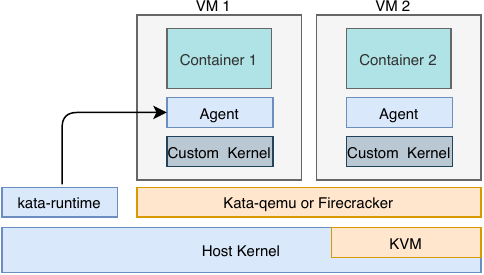
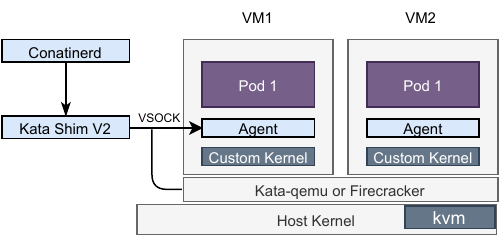
update closer article and figure

diff --git a/content/ja/project/virtualization-performance/index.md b/content/ja/project/virtualization-performance/index.md
@@ -39,19 +39,19 @@ url_video: ""
 #   Otherwise, set `slides = ""`.
 slides: ""
 ---
-Virtual Machines (VMs) are used extensively in cloud computing. The underlying hypervisor allows hardware resources to be split into multiple virtual units which enhances resource utilization. However, VMs with traditional architecture introduce heavy overhead and reduce workload performance. Containers have been introduced to overcome this drawback, yet such a solution raises security concerns due to poor isolation. Lightweight hypervisors have been leveraged to strike a balance between performance and isolation. We conducted a comprehensive performance evaluation of containers based on modern lightweight hypervisors, elaborated on the limitations that affect virtualization performance, identified the best fit use case for practitioners and provided pros and cons analysis of each solution in great detail. We hope our study provides a guidance on how cloud infrastructure should be built and gives the community a better picture of the current technological trend.
+Virtual Machines (VMs) are used extensively in the cloud. The underlying hypervisors allow hardware resources to be split into multiple virtual units which enables server consolidation, fault containment and resource management. However, VMs with traditional architecture introduce heavy overhead and reduce application performance. Containers are becoming popular options for running applications, yet such a solution raises security concerns due to weaker isolation than VMs. We are at the point of container and traditional virtualization convergence where lightweight hypervisors are implemented and integrated into the container ecosystem in order to maximize the benefits of VM isolation and container performance. However, there has been no comprehensive comparison among different convergence architectures. To identify limitations and best fit use cases, we investigate the characteristics of Docker, Kata, gVisor, Firecracker and QEMU/KVM by measuring the performance of disk storage, main memory, CPU, network, system call, and startup time. In addition, we evaluate their performance of running the Nginx web server and the MySQL database management system. We use QEMU/KVM as an example of running traditional VMs, Docker as the standard runc container, and the rest as the representatives of lightweight hypervisors. We compare and analyze the benchmark results, discuss the possible implications, explain the trade-off each organization made, and elaborate on the pros and cons of each architecture.
 
 ## Emerging solutions that provides better isolation - gVisor and Kata Containers
 
 {{< figure src="gVisor.png" title="gVisor Architecture" width="80%">}}
 
-gVisor is a container sandbox developed by Google. It shipped with a user space kernel, acting like a lightweight hypervisor which provides an isolation boundary between applications and host kernel. Sentry is the application kernel that implements substantial portion of the Linux system interface by using a limited set of system calls. gVisor uses ptrace to intercept the system calls from applications. KVM can also be used to boost virtualization performance. System calls invoked from the Sentry are further filtered using seccomp. File I/O is handled by a separate process - Gofer, which communicates with the Sentry through the 9P protocol.
+gVisor is a container sandbox developed by Google. It shipped with a user space kernel - Sentry, acting like a lightweight hypervisor which provides an isolation boundary between applications and host kernel. Sentry is the application kernel that implements substantial portion of the Linux system interface by using a limited set of system calls. gVisor uses ptrace to intercept the system calls from applications. KVM can also be used to trap system calls at hardware level to boost virtualization performance. System calls invoked from the Sentry are further filtered using seccomp. File I/O is handled by a separate file proxy process - Gofer, which communicates with the Sentry through the 9P protocol.
 
-{{< figure src="Kata.png" title="Kata Container Architecture" width="80%">}}
+{{< figure src="kata.png" title="Kata Container Architecture" width="80%">}}
 
-Kata builds lightweight VMs which seamlessly integrate with the container ecosystem. It ships with a default hypervisor Kata-qemu, which is based on QEMU/KVM. Significant optimization effort has been made. Kata provides a customized guest kernel which reduces startup time and memory footprint. Each Kata container runs inside a dedicated lightweight VM to enforce strong isolation. 
+Kata container is a collaboration between the Intel Clear Linux project and hyper.sh projects. It is an example of a container and virtualization convergence technology that allows users to run containers inside lightweight VMs. It has been seamlessly integrated into the containerd system using a shim, named containered-shim-kata-v2. The virtualization part is based on QEMU/KVM to enable hardware assisted virtualization, and a highly optimized guest kernel includes the functionalities to run only container workloads. The customized kernel is optimized to reduce boot time and memory footprint, and a minimal root file system based on Clear Linux reduces attack surface significantly by removing many of the binaries commonly found in general purpose Linux distributions. The only two processes running inside of the VM at startup are systemd and a kata agent. The containerd-shim-kataand kata agent communicates across a VSOCK socket.
 
-Our study covered several prominent lightweight hypervisors backed by Docker, Amazon, Google and Intel. We identified a number of bottlenecks that affect virtualization performance and elabrated the trade offs made by each organization. The pros and cons of each system are discussed in detail and some limitations that could be potentially addressed in the future are also mentioned. It is evident that the current architectural trend of lightweight hypervisors tends to march forward a new era and lightweight VMs have the potential to partially replace traditional VMs. However, lightweight hypervisors have not reached the point to become a mature alternative, and thus traditional VMs would still be the preferred options for many organizations. Kata is on the right track to earn the title of having the security of a VM and offering the performance of a container. Future research on reducing the memory footprint of lightweight hypervisor based containers would be practical. A research conducted by NEC Lab using optimized [Xen hypervisor with customized unikernels](https://dl.acm.org/doi/pdf/10.1145/3132747.3132763) opens the possibility of creating lighter and safer VMs than containers which is an exicting research worth looking into.
+Our study covered several prominent lightweight hypervisors backed by Docker, Amazon, Google and Intel. We identified a number of bottlenecks that affect virtualization performance and elabrated the trade offs made by each organization. The pros and cons of each system are discussed in detail and some limitations that could be potentially addressed in the future are also mentioned. It is evident that the current architectural trend of lightweight hypervisors tends to march forward a new era and lightweight VMs have the potential to supplant traditional VMs. However, lightweight hypervisors have not reached the point to become a mature alternative, and thus traditional VMs would still be the preferred options for many organizations. Kata is on the right track to earn the title of having the security of a VM and offering the performance of a container. Future research on reducing the memory footprint of lightweight hypervisor based containers would be practical. A research conducted by NEC Lab using optimized [Xen hypervisor with customized unikernels](https://dl.acm.org/doi/pdf/10.1145/3132747.3132763) opens the possibility of creating lighter and safer VMs than containers which is an exicting research worth looking into.
 
 ## Publication
 - Guoqing Li, Keichi Takahashi, Kouhei Ichikawa, Hajimu Iida, Pree Thiengburanathum, Passakorn Phannachitta, “Comparative Performance Study of Lightweight Hypervisors Used in Container Environment”, 11th International Conference on Cloud Computing and Services Science (CLOSER 2021), Apr. 2021.
